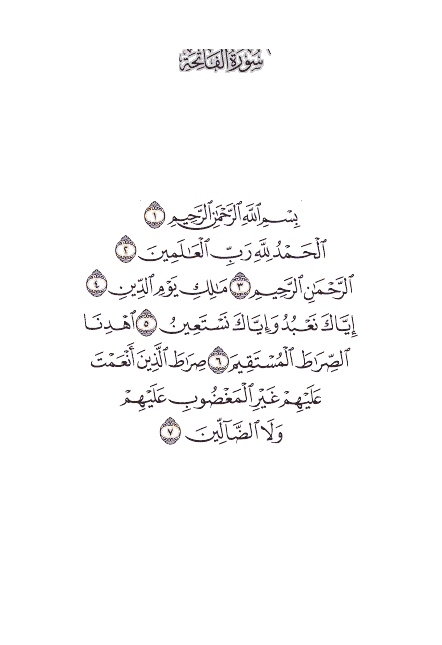
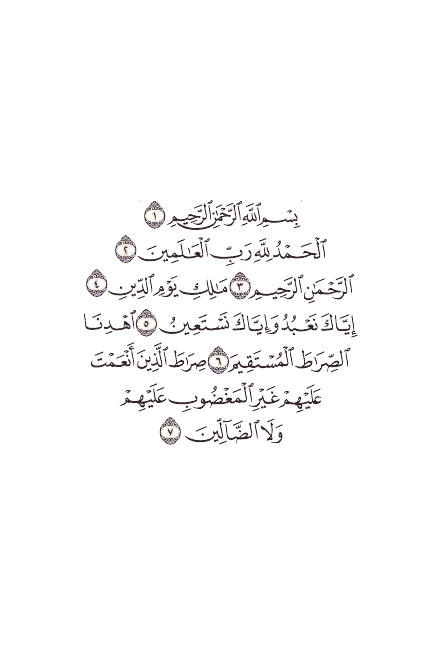
Remove surah title from frame-free first page

Changed region(s): [[0.3824, 0.062, 0.6176, 0.124]]

diff --git a/tools/FrameFreePage1.java b/tools/FrameFreePage1.java
@@ -1,7 +1,7 @@
 // Regenerate the optional frame-free page 1 from the attributed original:
 // javac -d /tmp tools/FrameFreePage1.java
 // java -cp /tmp FrameFreePage1 app/src/main/assets/mushaf/1.png app/src/main/assets/mushaf/1-no-frame.png
-// Only source pixels within the printed title and verse bands are copied.
+// Only source pixels within the seven printed ayah bands are copied.
 import java.awt.image.BufferedImage;
 import java.io.File;
 import javax.imageio.ImageIO;
@@ -36,18 +36,6 @@ public class FrameFreePage1 {
                     allowed[y * width + x] = true;
                     if ((argb >>> 24) > 0 && luminance < 205) ink[y * width + x] = true;
                 }
-            }
-        }
-        // Keep the original title glyph pixels, omitting the solid arch fill.
-        for (int y = 49; y < 73; y++) {
-            for (int x = 179; x < 271; x++) {
-                int argb = original.getRGB(x, y);
-                int red = (argb >>> 16) & 255;
-                int green = (argb >>> 8) & 255;
-                int blue = argb & 255;
-                int luminance = (77 * red + 150 * green + 29 * blue) >>> 8;
-                allowed[y * width + x] = true;
-                if ((argb >>> 24) > 0 && luminance < 205) ink[y * width + x] = true;
             }
         }
         for (int y = 0; y < height; y++) {

diff --git a/README.md b/README.md
@@ -21,7 +21,7 @@ This source project has not been compiled in the current workspace because JDK 1
 
 The bundled Hafs page artwork comes from the [Quran Images collection](https://github.com/Miftah-Fentaw/Quran-Images), which credits the [Quran.com image generator](https://github.com/quran/quran.com-images) and the Madinah Mushaf. The [King Fahd Qur'an Printing Complex](https://qurancomplex.gov.sa/mushaf-printing) publishes the underlying Madinah Mushaf digital artwork and its usage rights. The original PNGs are fixed page artwork, not Arabic text reflowed to the screen width. The bundled ayah hit boxes are adapted from [GitCreativeCode/quran-ayah-coords](https://github.com/GitCreativeCode/quran-ayah-coords), licensed [CC BY-SA 4.0](https://creativecommons.org/licenses/by-sa/4.0/); see `app/src/main/assets/mushaf/AYAH_COORDS_ATTRIBUTION.txt`. The hit boxes add interaction without changing the original artwork. Page verse indices, Arabic text (`quran-uthmani`), Indonesian translation (`id.indonesian`), English translation (`en.sahih`, Saheeh International), and streaming audio are loaded over HTTPS from [AlQuran Cloud](https://alquran.cloud/api). The API response supplies audio URLs and both translation edition names. Its [terms](https://alquran.cloud/terms-and-conditions) require attribution to translators and state that translators and reciters retain their rights. Obtain any permissions required for commercial distribution.
 
-As a first frame-free trial, Read Arabic loads `app/src/main/assets/mushaf/1-no-frame.png` for page 1. It is derived from the original `1.png` by copying pixels in the printed title and ayah bands onto a plain background; no Arabic is retyped or generated. The source image is retained, and both images have the same 442×645 canvas so the existing page-1 hit coordinates remain aligned. The reproducible transformation is in `tools/FrameFreePage1.java`. Other pages still load their original numbered PNGs.
+As a first frame-free trial, Read Arabic loads `app/src/main/assets/mushaf/1-no-frame.png` for page 1. It is derived from the original `1.png` by copying pixels in the seven printed ayah bands onto a plain background, without the ornamental frame or surah title; no Arabic is retyped or generated. The source image is retained, and both images have the same 442×645 canvas so the existing page-1 hit coordinates remain aligned. The reproducible transformation is in `tools/FrameFreePage1.java`. Other pages still load their original numbered PNGs.
 
 The light reading palette uses warm off-white pages and `#080808` Arabic text. Red `#EF4D4D` is reserved for selected tabs and the main playback button; neutral text and a muted gold mark the reading content. The index has a compact header and a bordered last-read card, translation cards use fine borders, and the light-mode player shares the page's off-white surface. The optional dark theme uses `#080808` (background), `#101010` (surface), `#171717` (cards), and `#F8F8F8` (text).
 
